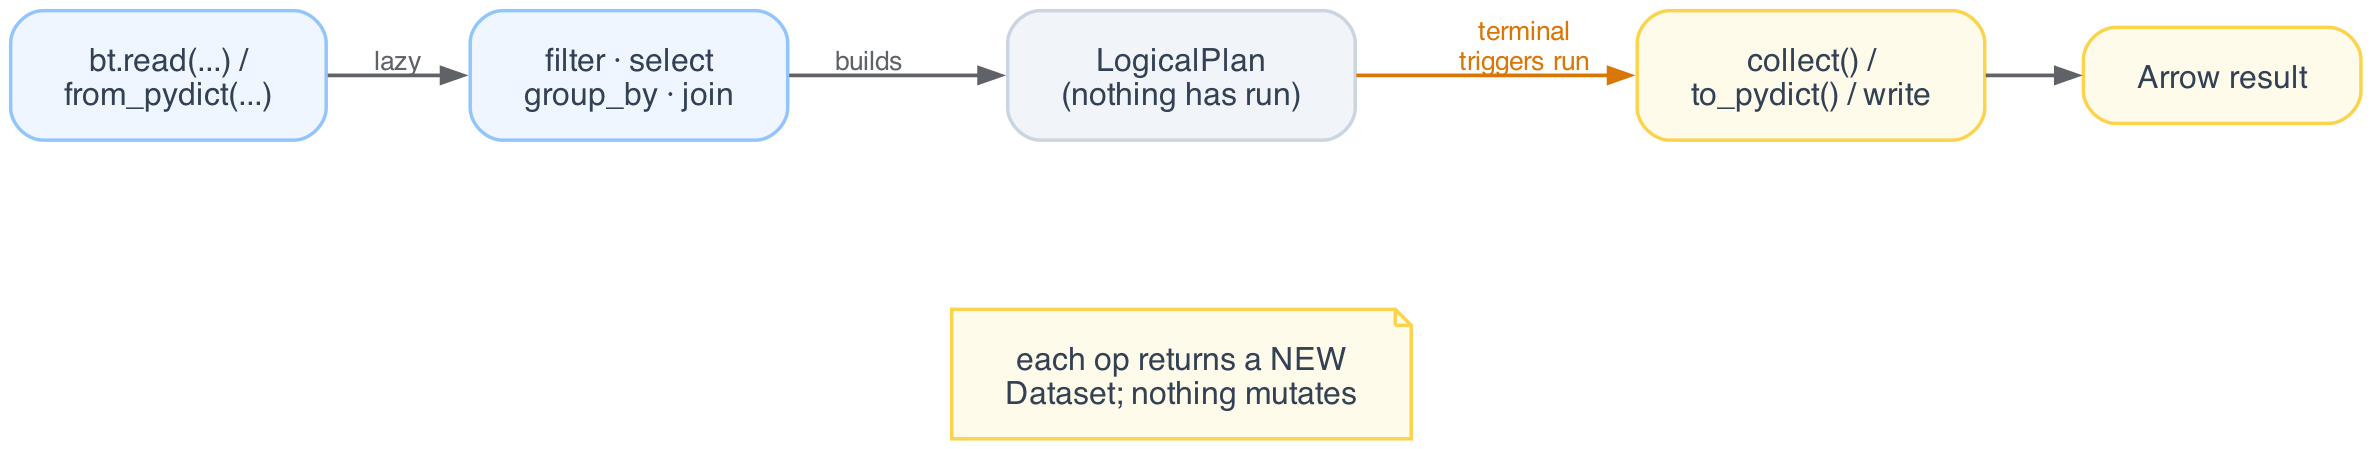
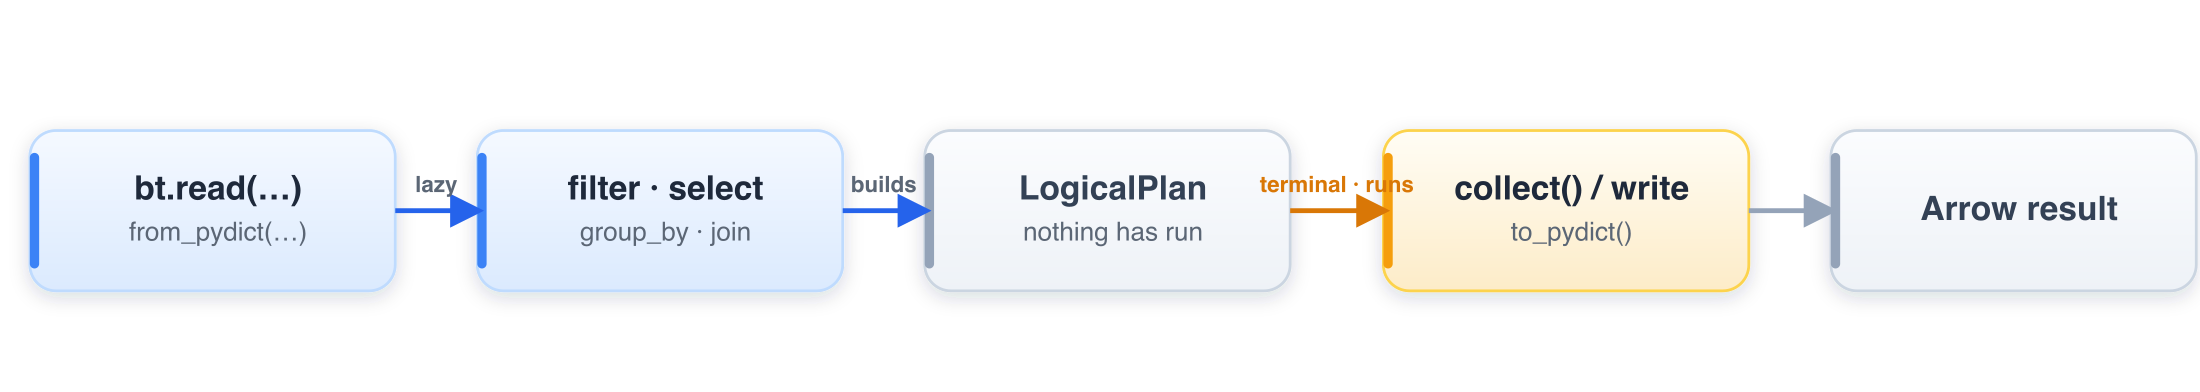
docs: polished SVG lifecycle/mergeable diagrams + enrich thin concept pages
Upgrade the lifecycle (lazy build → terminal → result) and mergeable-algebra diagrams
from flat Graphviz to hand-crafted SVG (gradient cards, shadows, labeled flow arrows),
matching the hub; drop both from render.py. Enrich the thin concept pages with more
content and small runnable snippets: adaptive (a "bad estimate, corrected" walkthrough
+ a stats() example), expressions (conditionals, reuse, typed accessors), scaling (the
spill + distributed=True story). Give the architecture landing an overview paragraph,
the two-planes diagram, and a card grid.

diff --git a/docs/_static/diagrams/render.py b/docs/_static/diagrams/render.py
@@ -181,46 +181,6 @@ def _carbonite_loop() -> str:
 """
 
 
-@diagram("lifecycle")
-def _lifecycle() -> str:
-    return f"""
-  rankdir=LR; nodesep=0.45;
-  src [label="bt.read(...) /\\nfrom_pydict(...)", fillcolor="{BLUE_BG}", color="{BLUE}"];
-  ops [label="filter · select\\ngroup_by · join", fillcolor="{BLUE_BG}", color="{BLUE}"];
-  plan [label="LogicalPlan\\n(nothing has run)", fillcolor="{GREY_BG}", color="{GREY}"];
-  term [label="collect() /\\nto_pydict() / write", fillcolor="{ORANGE_BG}", color="{ORANGE}"];
-  res [label="Arrow result", fillcolor="{ORANGE_BG}", color="{ORANGE}"];
-  src -> ops [label="lazy"];
-  ops -> plan [label="builds"];
-  plan -> term [label="terminal\\ntriggers run", color="{ORANGE_EDGE}", fontcolor="{ORANGE_EDGE}"];
-  term -> res;
-  {{ rank=same; note; plan; }}
-  note [shape=note, fillcolor="#fffbeb", color="{ORANGE}",
-        label="each op returns a NEW\\nDataset; nothing mutates"];
-  plan -> note [style=invis];
-"""
-
-
-@diagram("mergeable")
-def _mergeable() -> str:
-    return f"""
-  rankdir=LR; nodesep=0.3; ranksep=0.55;
-  node [width=1.5];
-  subgraph cluster_parts {{
-    label="partitions (cores / machines)"; labeljust="l"; fontsize=11;
-    style="rounded,dashed"; color="{GREY}"; margin=12;
-    pa [label="partial(p1)", fillcolor="{BLUE_BG}", color="{BLUE}"];
-    pb [label="partial(p2)", fillcolor="{BLUE_BG}", color="{BLUE}"];
-    pc [label="partial(p3)", fillcolor="{BLUE_BG}", color="{BLUE}"];
-  }}
-  comb [label="combine\\n(associative)", fillcolor="{ORANGE_BG}", color="{ORANGE}"];
-  fin [label="finalize", fillcolor="{ORANGE_BG}", color="{ORANGE}"];
-  out [label="result", fillcolor="{GREY_BG}", color="{GREY}"];
-  pa -> comb; pb -> comb; pc -> comb;
-  comb -> fin -> out;
-"""
-
-
 def main() -> int:
     dot = shutil.which("dot")
     if not dot:

diff --git a/docs/architecture/index.md b/docs/architecture/index.md
@@ -1,7 +1,33 @@
 # Architecture
 
-How a query flows from the Python control plane to the Rust data plane: plan
-construction, optimization, and execution.
+How a query flows from the Python control plane to the Rust data plane. Python builds
+and optimizes the plan but never touches a row; Rust runs every per-row operation over
+Apache Arrow. They meet at one typed, zero-copy boundary — which is also why a result
+is identical on one core or a hundred.
+
+![Batcher's two planes: a Python control plane hands a JSON IR plus zero-copy Arrow batches to the Rust data plane.](../_static/diagrams/two_planes.png)
+
+::::{grid} 1 3 3 3
+:gutter: 3
+
+:::{grid-item-card} {octicon}`stack;1.1em` Overview
+:link: overview
+:link-type: doc
+The two planes, the crate layout, and how they fit together.
+:::
+
+:::{grid-item-card} {octicon}`workflow;1.1em` Execution
+:link: execution
+:link-type: doc
+Morsels, the interpreter and JIT tiers, and the parallel scheduler.
+:::
+
+:::{grid-item-card} {octicon}`git-branch;1.1em` Optimization
+:link: optimization
+:link-type: doc
+Kyber's passes, cost-based choices, and adaptive re-optimization.
+:::
+::::
 
 ```{toctree}
 :maxdepth: 1

diff --git a/docs/getting-started/concepts/adaptive.md b/docs/getting-started/concepts/adaptive.md
@@ -19,3 +19,27 @@ starts on a bad estimate can still finish fast and within memory.
 `explain()` shows the plan the optimizer chose, and `stats()` reports the measured
 per-operator rows, time, and peak memory that feed the next decision — the same
 signal the engine uses to re-plan.
+
+## A bad estimate, corrected
+
+Suppose a filter is *expected* to keep most rows but actually keeps a handful. A
+static plan, built for the large estimate, might pick a hash join sized for millions
+of rows and thrash. Batcher runs the filter, measures that only a few rows survived,
+and re-plans the join — often switching to a broadcast — before it starts.
+
+You can see the measured side of that loop. `stats()` runs the query and reports each
+operator's real row counts, time, and peak memory — the same numbers the optimizer
+feeds back into its next decision:
+
+```python
+import batcher as bt
+
+ds = bt.from_pydict({"city": ["NYC", "LA", "NYC", "SF"], "amount": [10, 20, 30, 40]})
+plan = ds.filter(bt.col("amount") > 15).group_by("city").agg(total=bt.col("amount").sum())
+
+print(plan.stats().rows)   # rows the query actually produced
+# 3
+```
+
+`explain()` shows the plan the optimizer chose without running it; `stats()` shows
+what actually happened. Together they are how you watch the adaptive loop at work.

diff --git a/docs/getting-started/concepts/expressions.md b/docs/getting-started/concepts/expressions.md
@@ -24,3 +24,26 @@ tree that the engine evaluates.
 
 The one place user Python sees data is `map_batches`, which hands you a whole Arrow
 batch (not a row) so the work still happens in bulk, off the per-row path.
+
+## Conditionals and reuse
+
+Because an expression is a value, you build it once and reuse it — in `select`,
+`with_columns`, `filter`, or an aggregate. Conditionals read like SQL's `CASE WHEN`:
+
+```python
+import batcher as bt
+
+ds = bt.from_pydict({"score": [91, 72, 55]})
+grade = bt.when(bt.col("score") >= 80).then(bt.lit("A")).otherwise(bt.lit("B"))
+print(ds.select(grade=grade).to_pydict())
+# {'grade': ['A', 'B', 'B']}
+```
+
+Every column type carries its own accessor, so the vocabulary matches the data:
+
+```python
+# docs: skip
+bt.col("email").str.lower()           # string ops
+bt.col("signup_ts").dt.year()         # datetime parts
+bt.col("tags").list.contains("ai")    # list / array ops
+```

diff --git a/docs/getting-started/concepts/scaling.md b/docs/getting-started/concepts/scaling.md
@@ -27,3 +27,12 @@ Passing `distributed=True` to `collect()` runs the same plan across workers; the
 output matches the single-node result above. There is no separate distributed
 operator to learn — going from a sample to petabytes is a deployment change, not a
 rewrite.
+
+The mergeable form is also what keeps memory bounded: each `partial` is small, and a
+partition that grows too large spills to disk rather than failing. Scaling out is then
+just a flag — the plan, and the result, are unchanged:
+
+```python
+# docs: skip
+counts.collect(distributed=True)   # same plan, many machines, identical result
+```